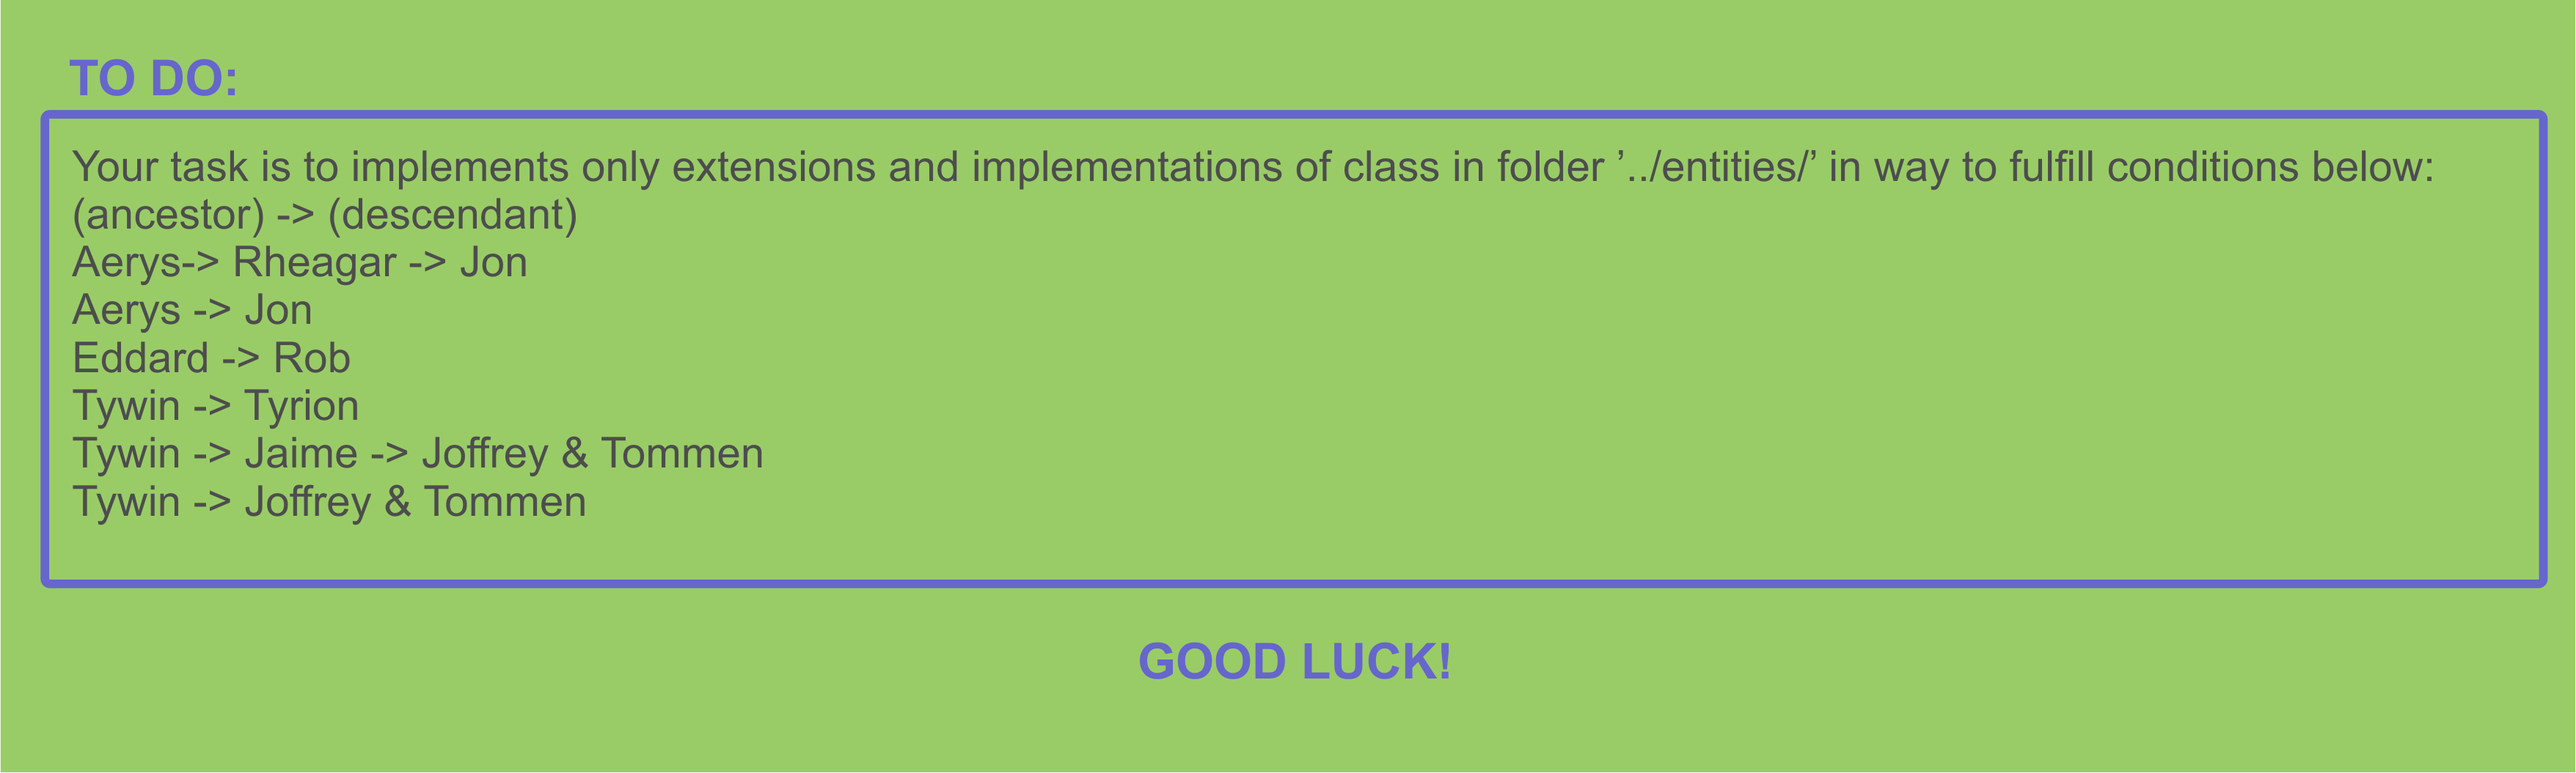
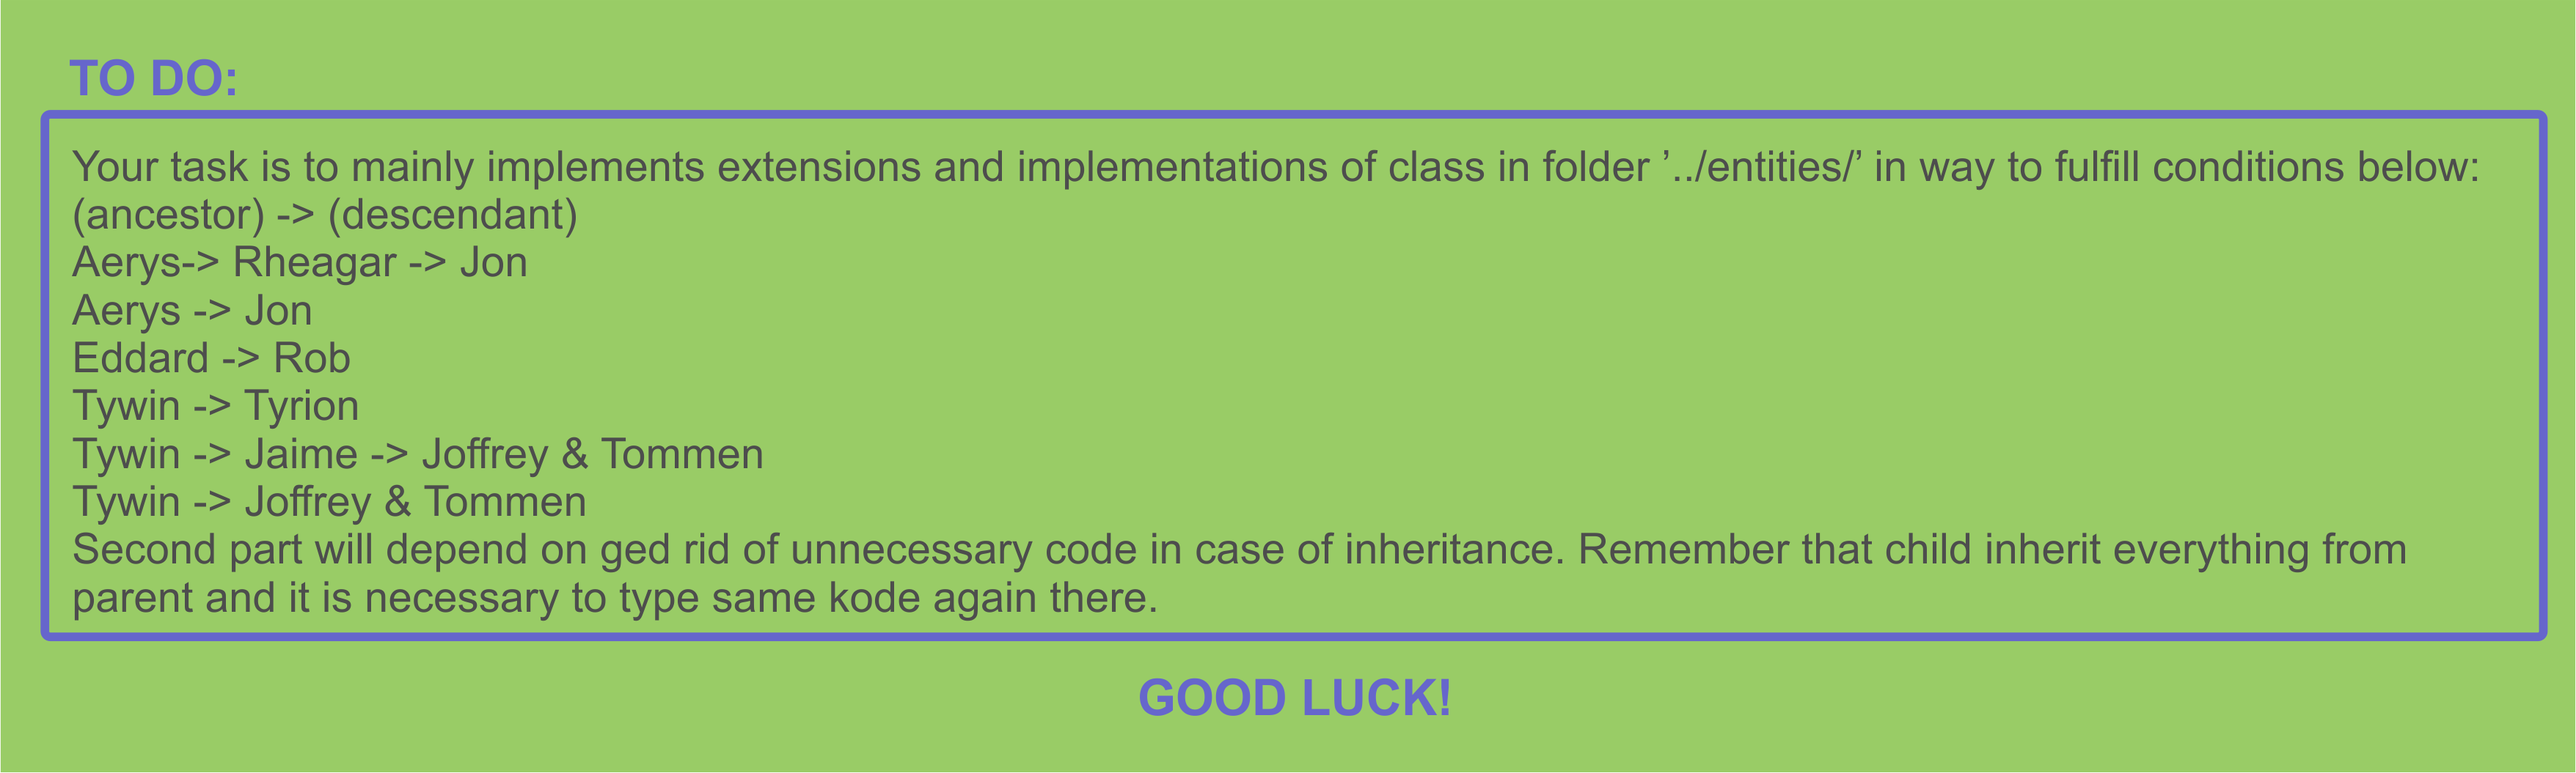
@update desc / redame

diff --git a/Redame.md b/Redame.md
@@ -17,3 +17,7 @@ Tywin -> Tyrion
 Tywin -> Jaime -> Joffrey & Tommen
 
 Tywin -> Joffrey & Tommen
+
+Second part will depend on ged rid of unnecessary code in case of inheritance. 
+Remember that child inherit everything from parent and it is necessary to type 
+same kode again there.
